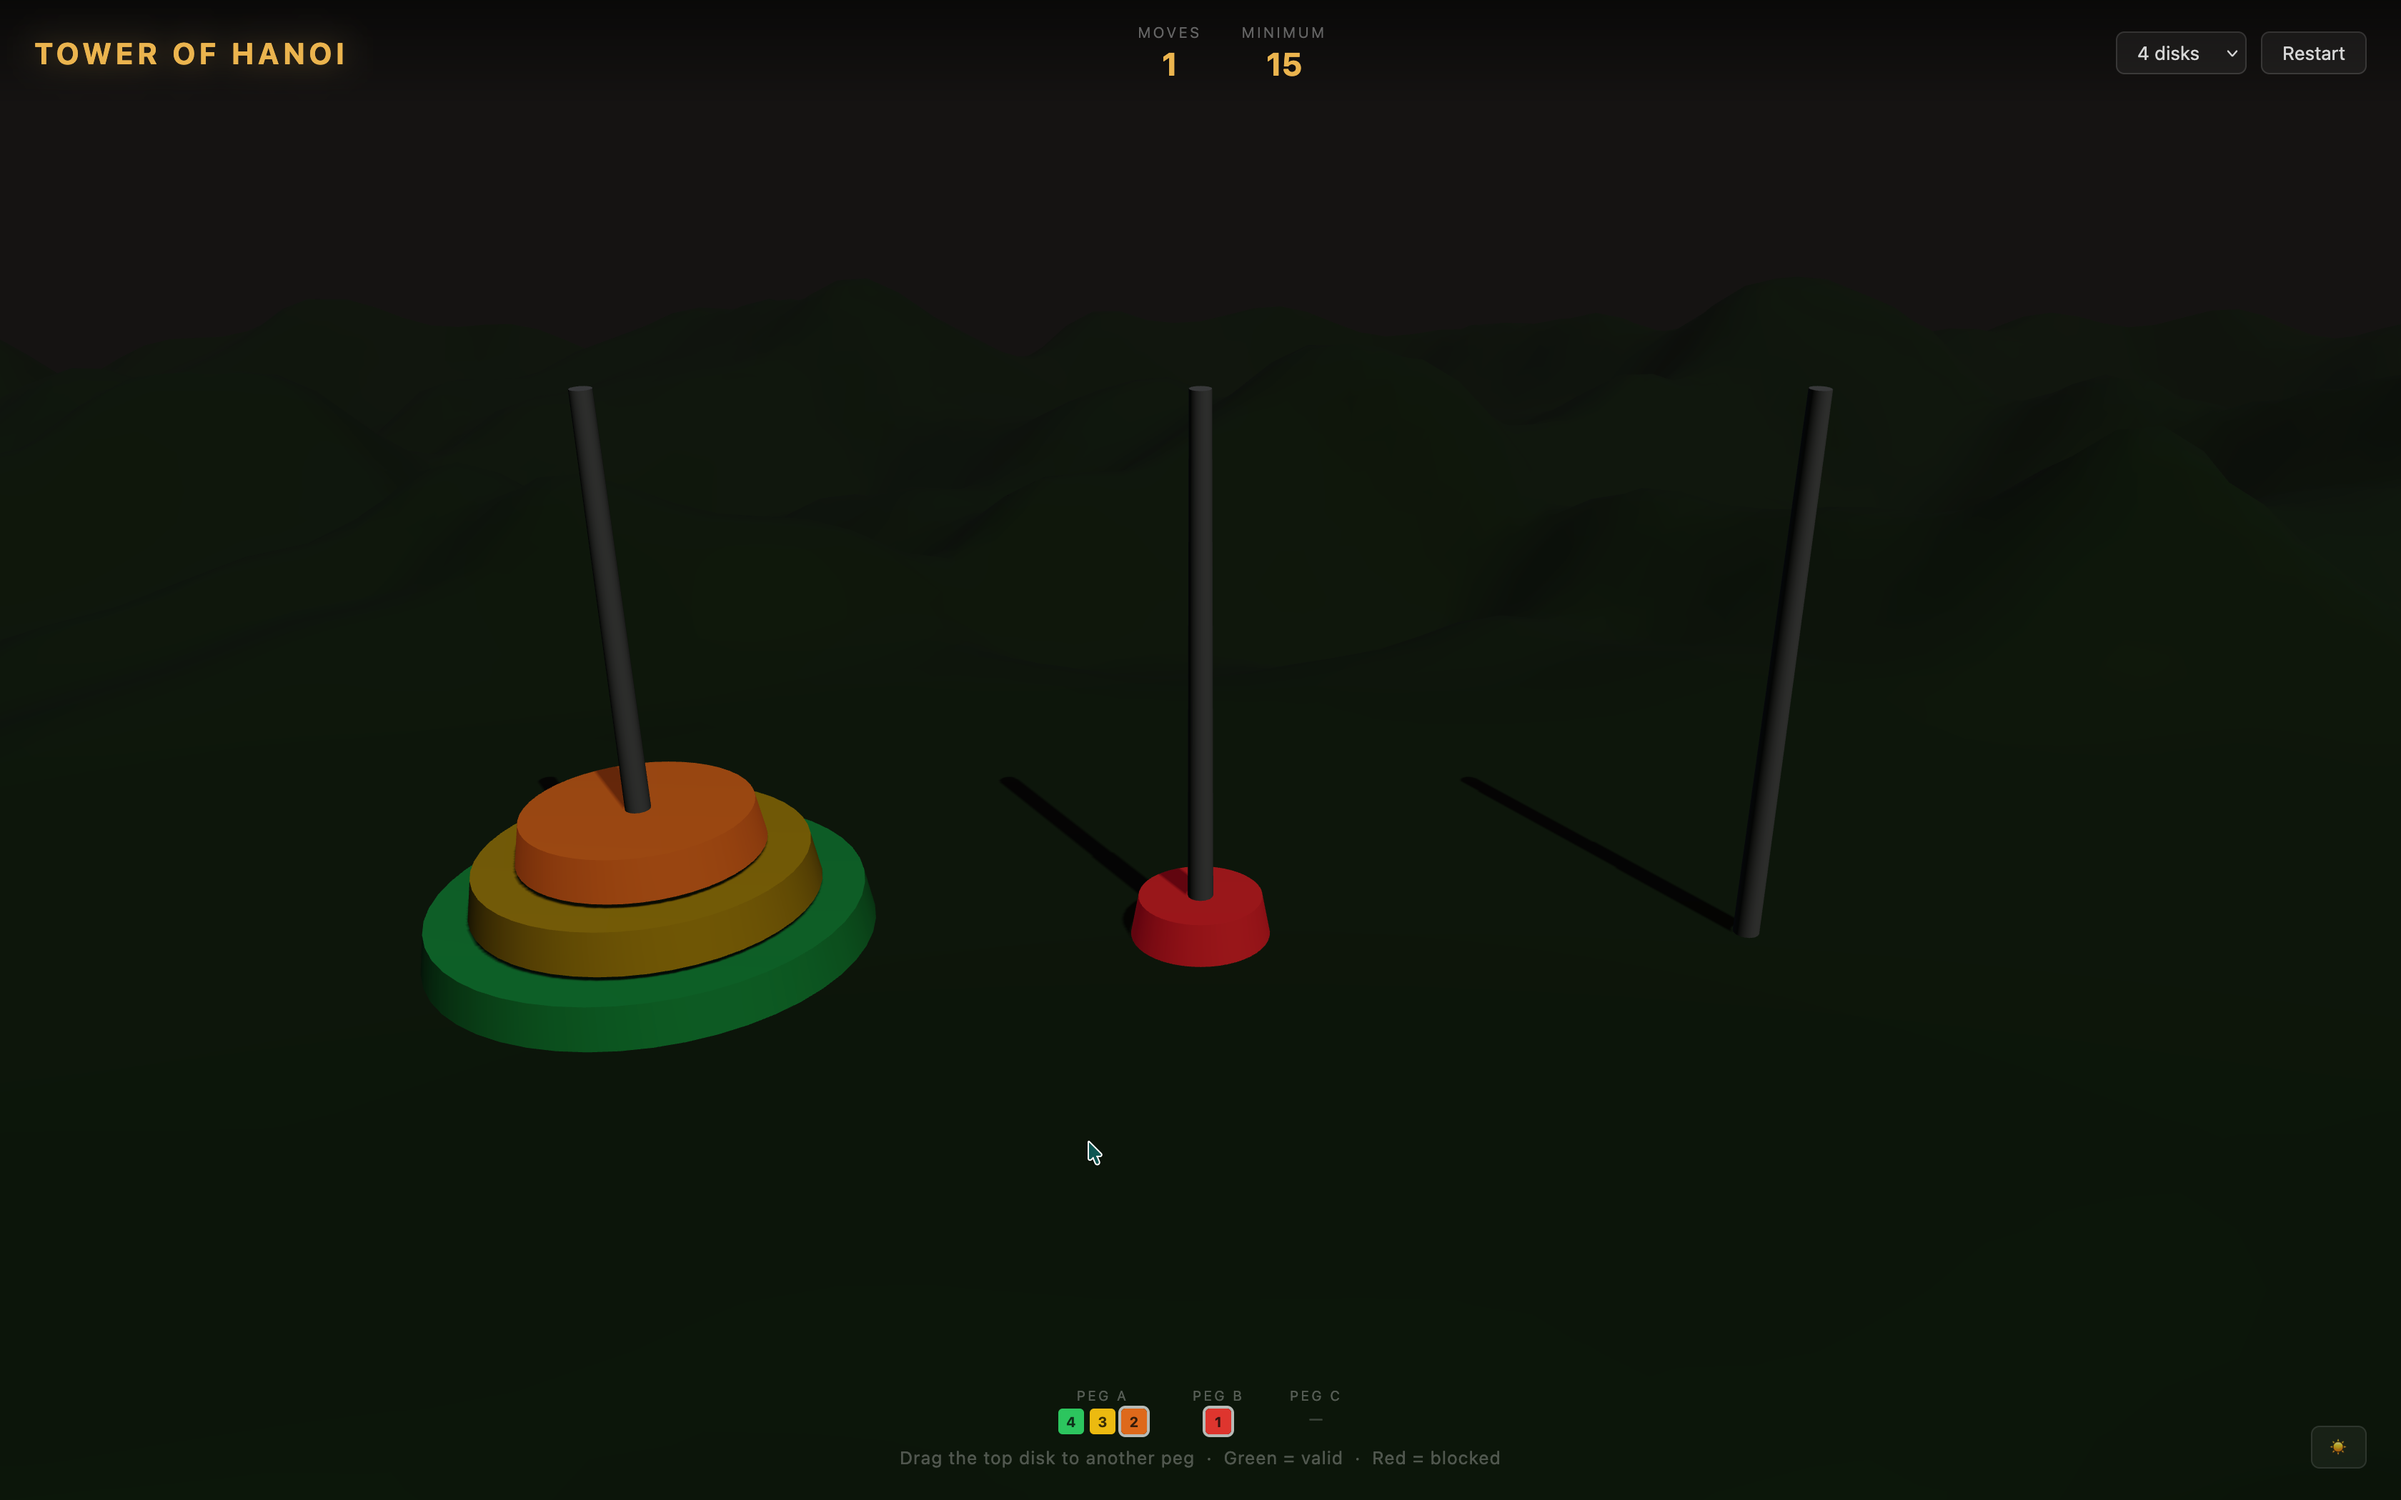
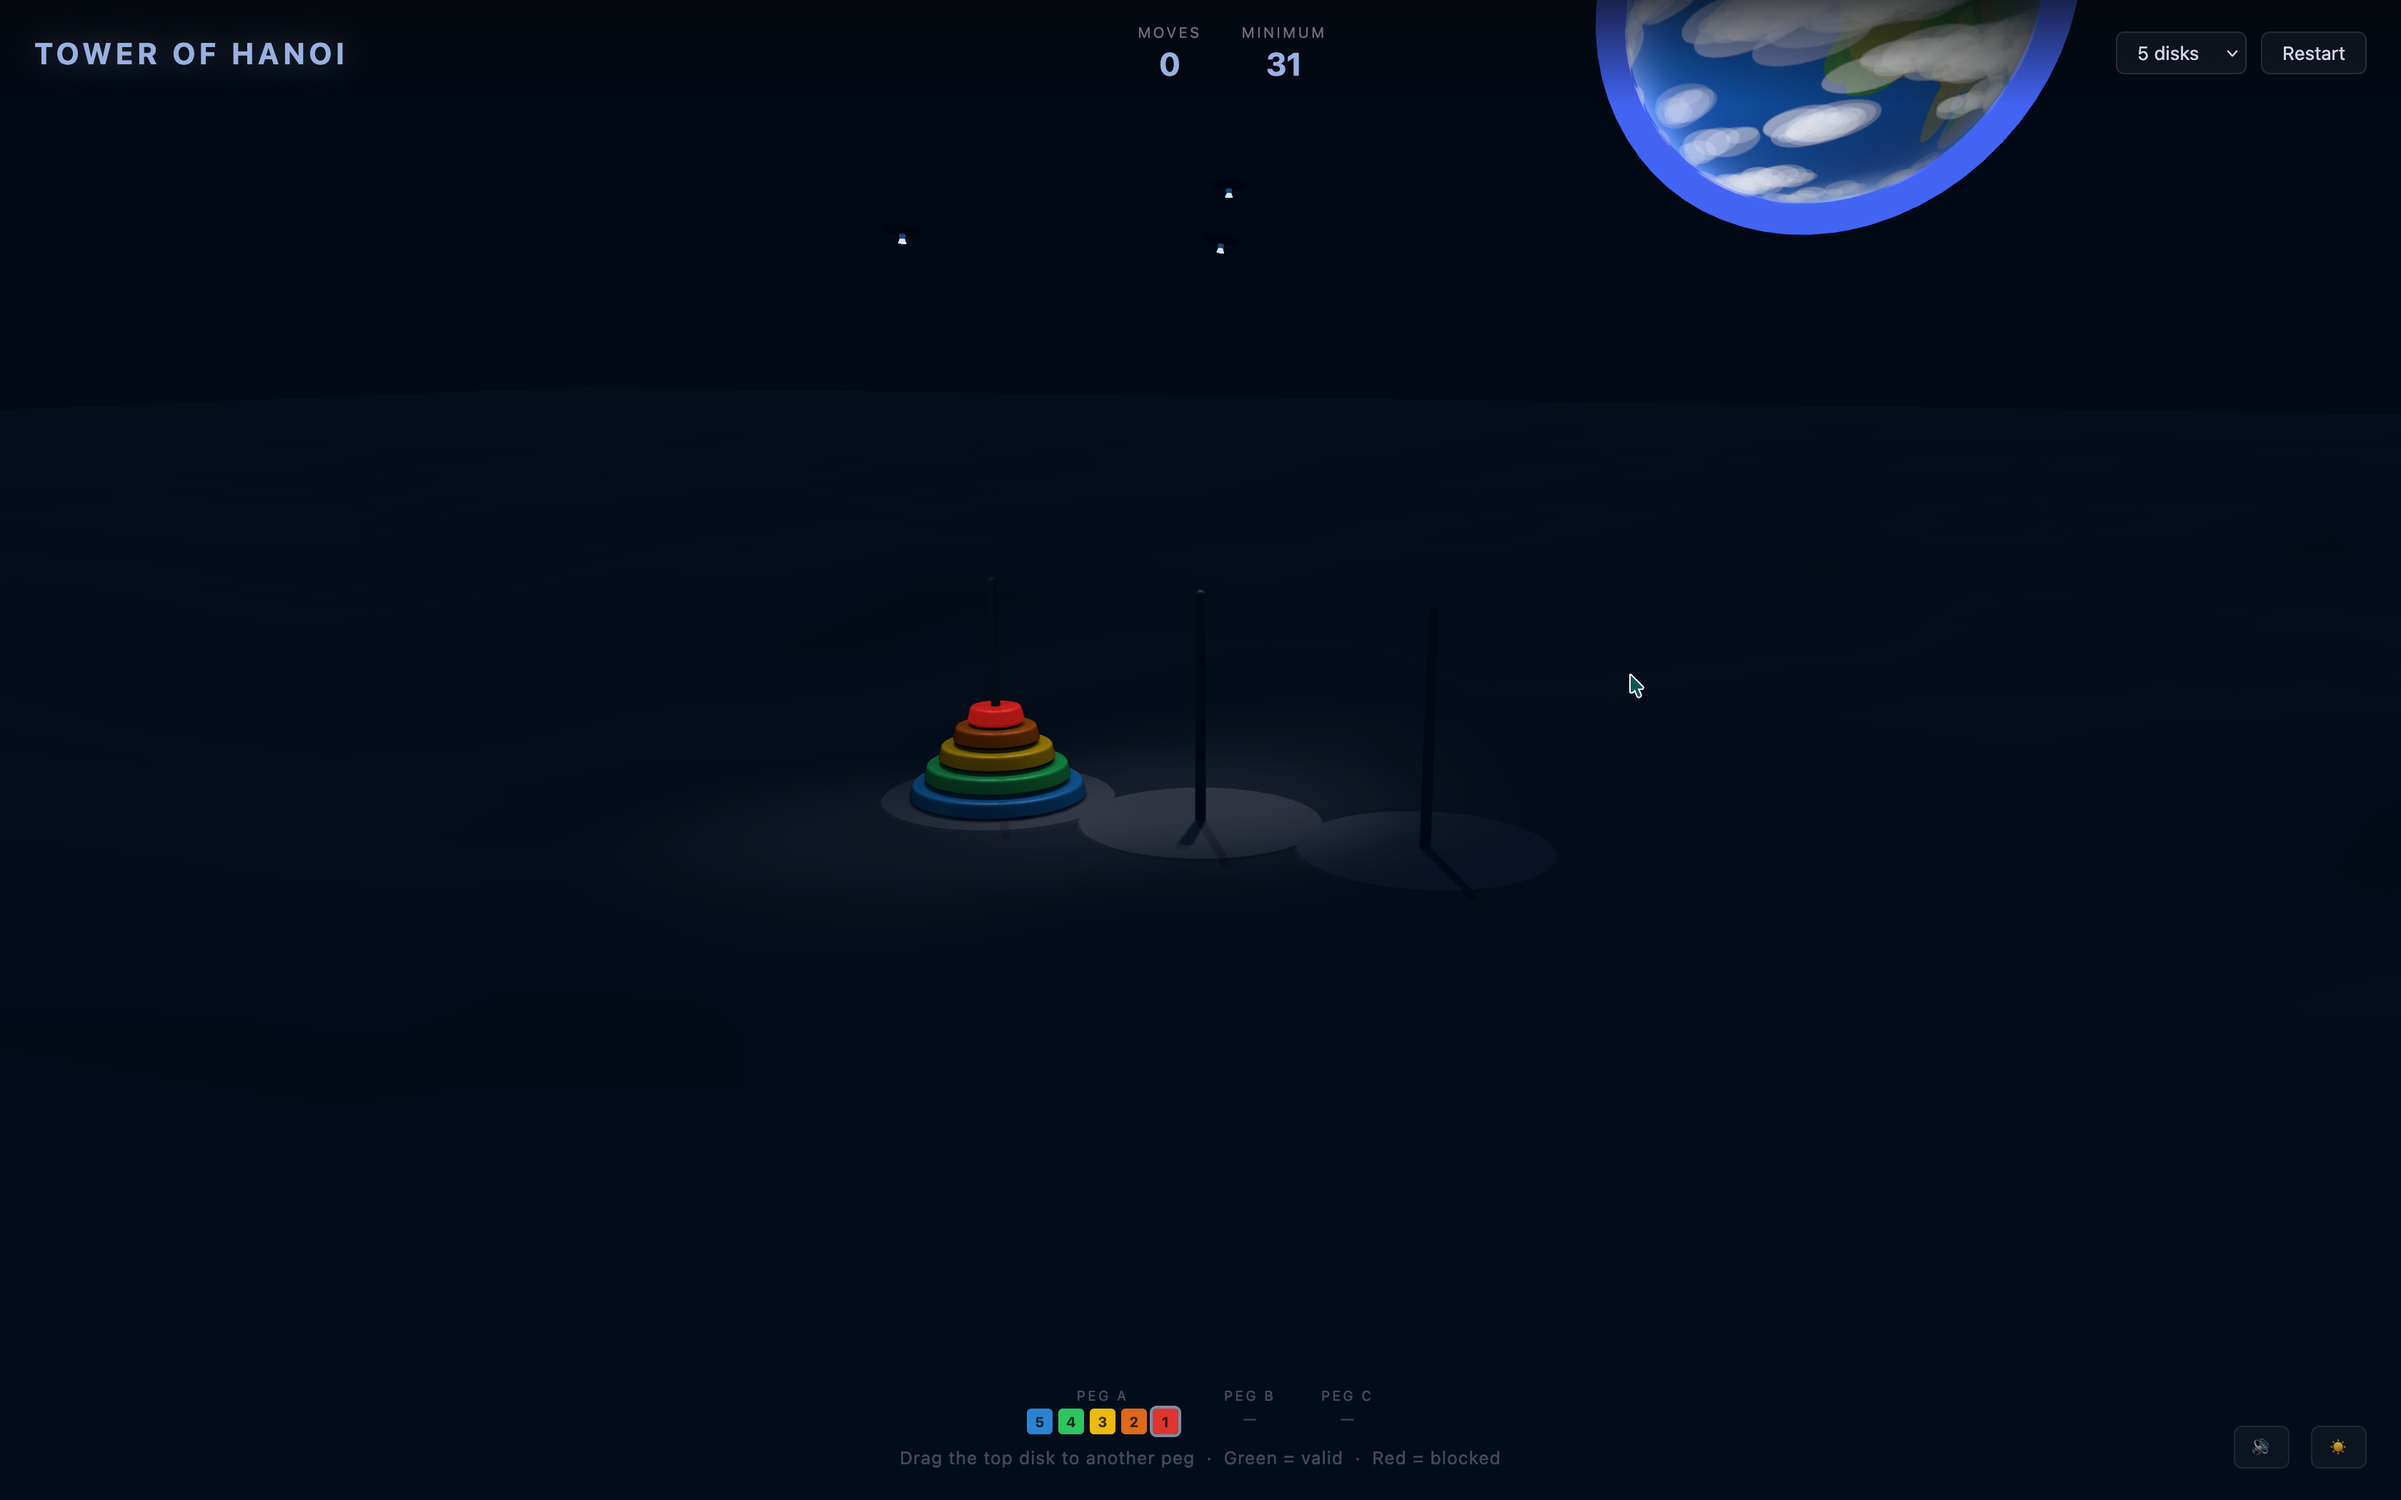
Update screenshot to night scene with Earth, embed it in README

diff --git a/README.md b/README.md
@@ -4,6 +4,8 @@
 
 A beautiful 3D Tower of Hanoi puzzle built with [Three.js](https://threejs.org/) (WebGPU) + Vite. Drag-and-drop disks between pegs with visual feedback (green = valid, red = invalid) — set on another world, with Earth hanging in the night sky.
 
+![Tower of Hanoi 3D — night scene with Earth in the sky](screenshot.png)
+
 ## ✨ Features
 - **Interactive 3D gameplay** — Drag the top disk only
 - 3 to 7 disks with physics-based animations: real gravity drops with bounce, squash & stretch, spring-damped dragging, impact dust and camera shake
